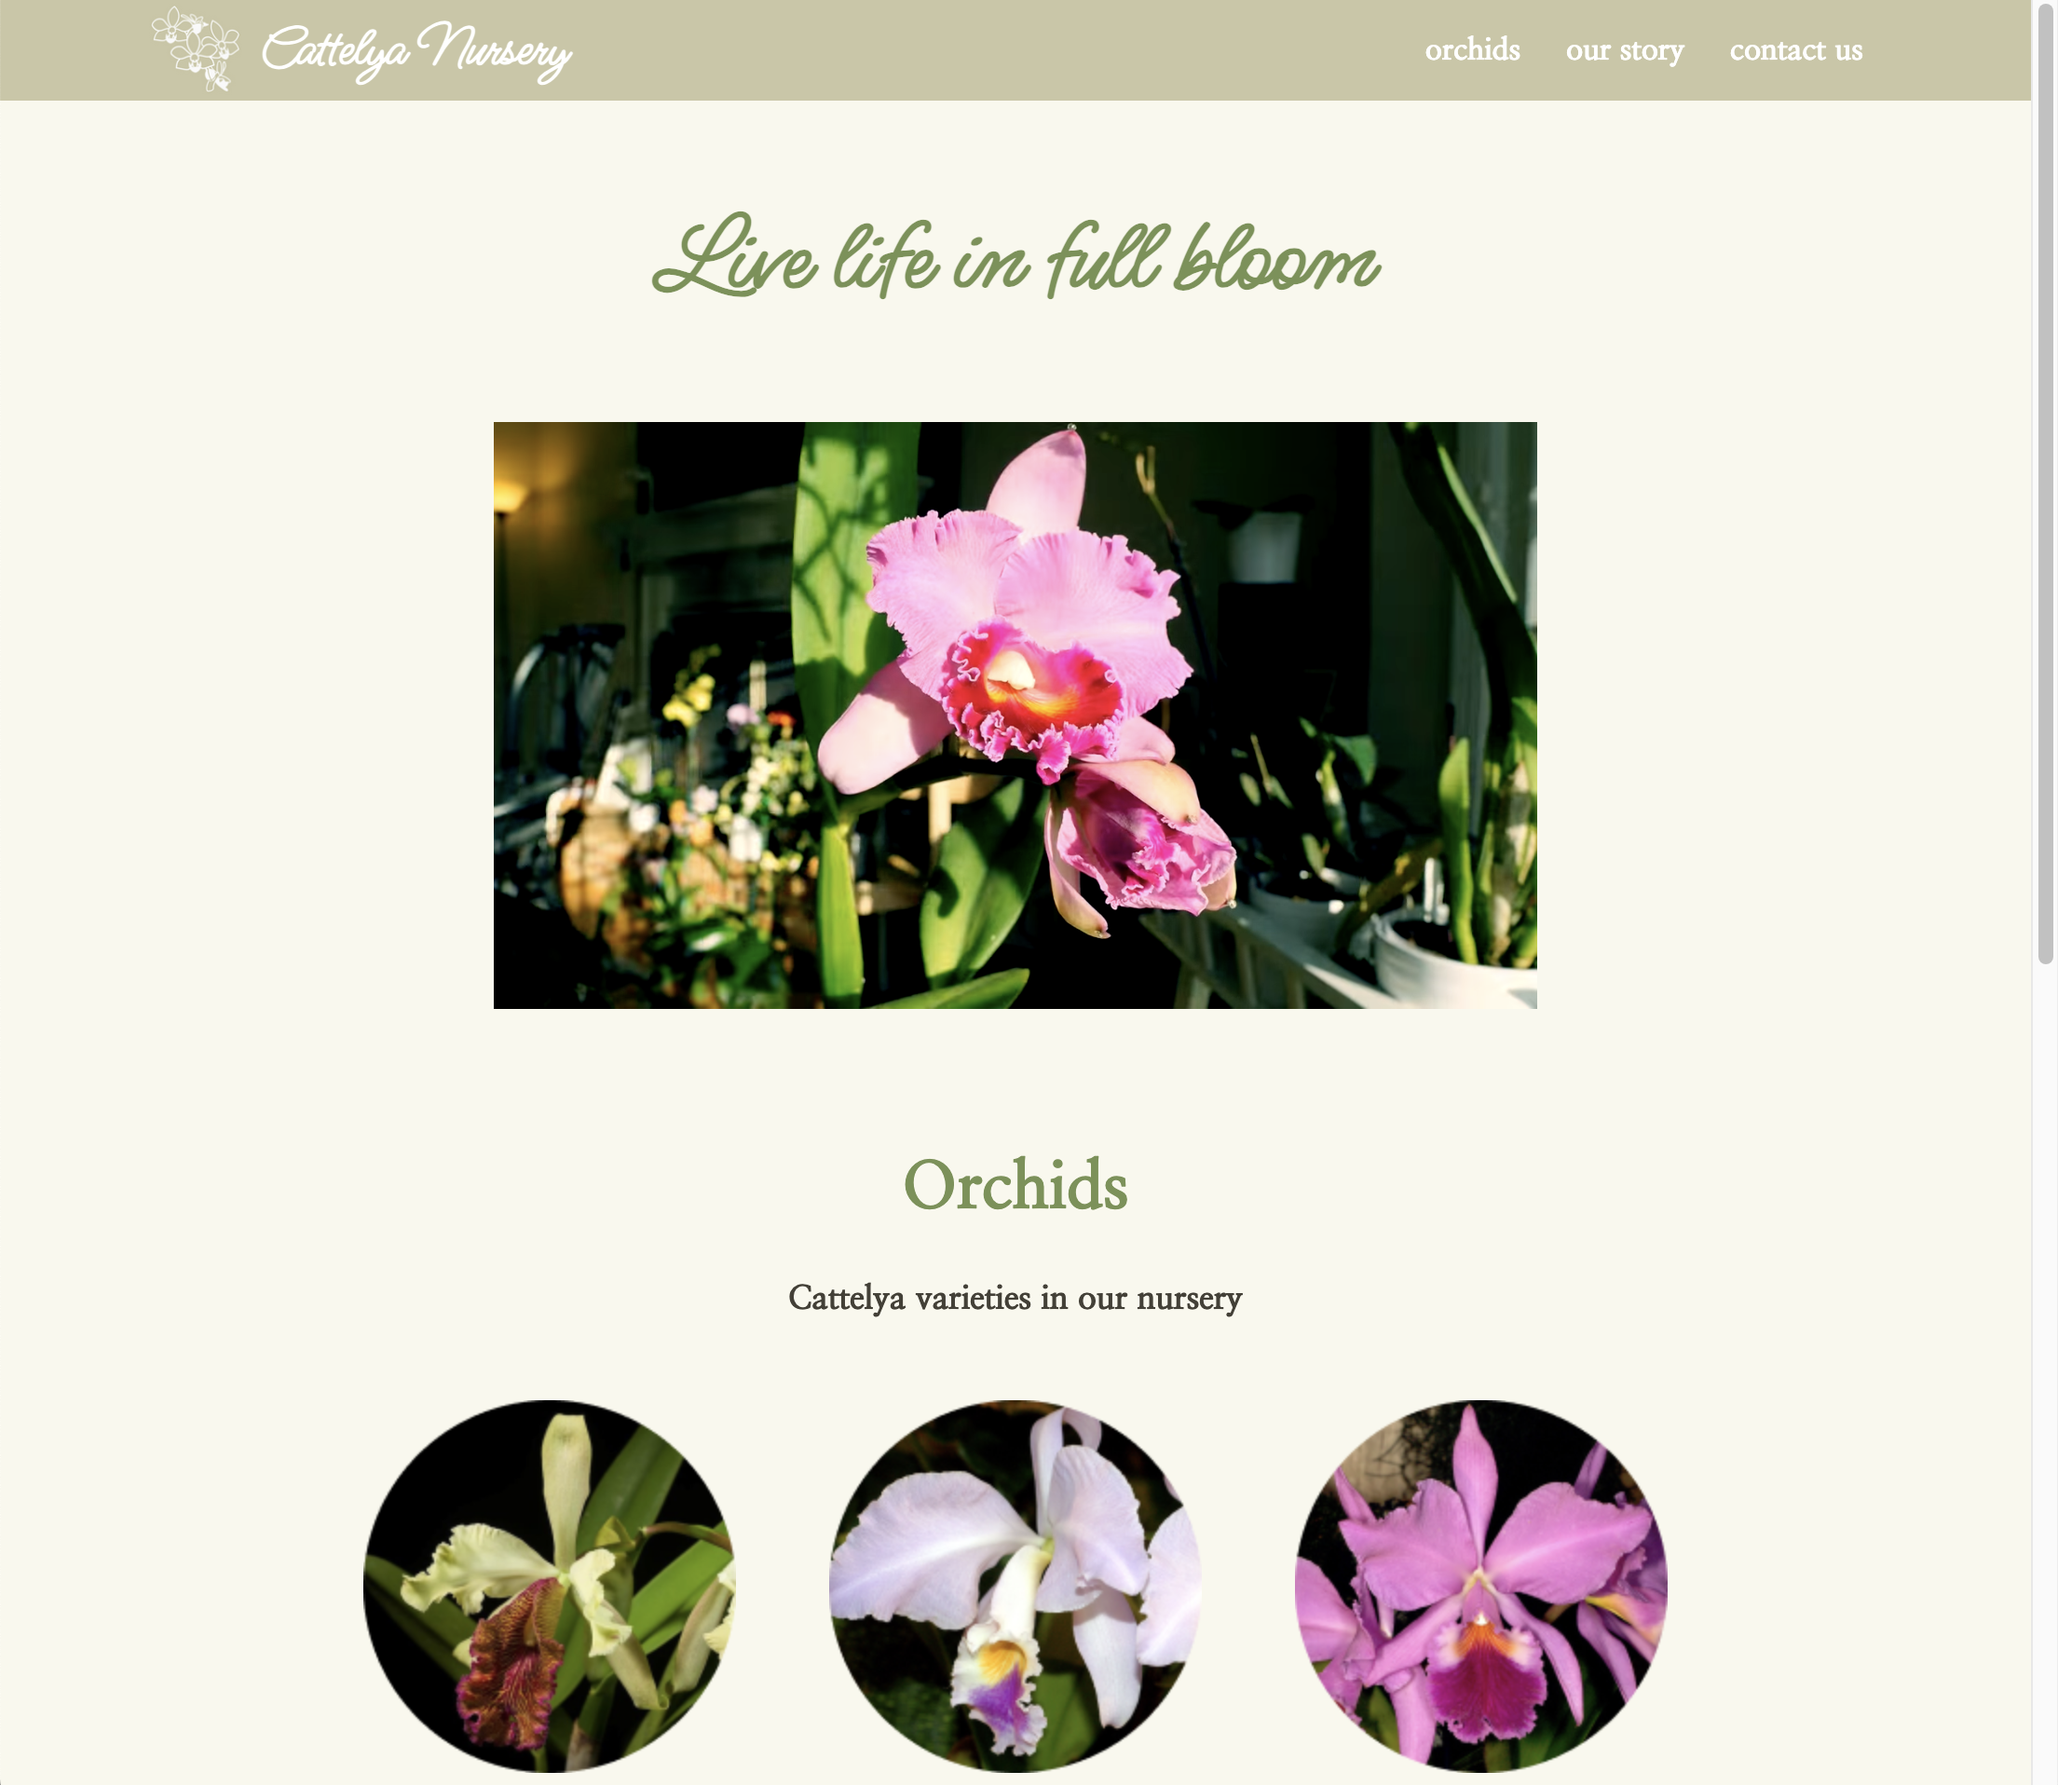
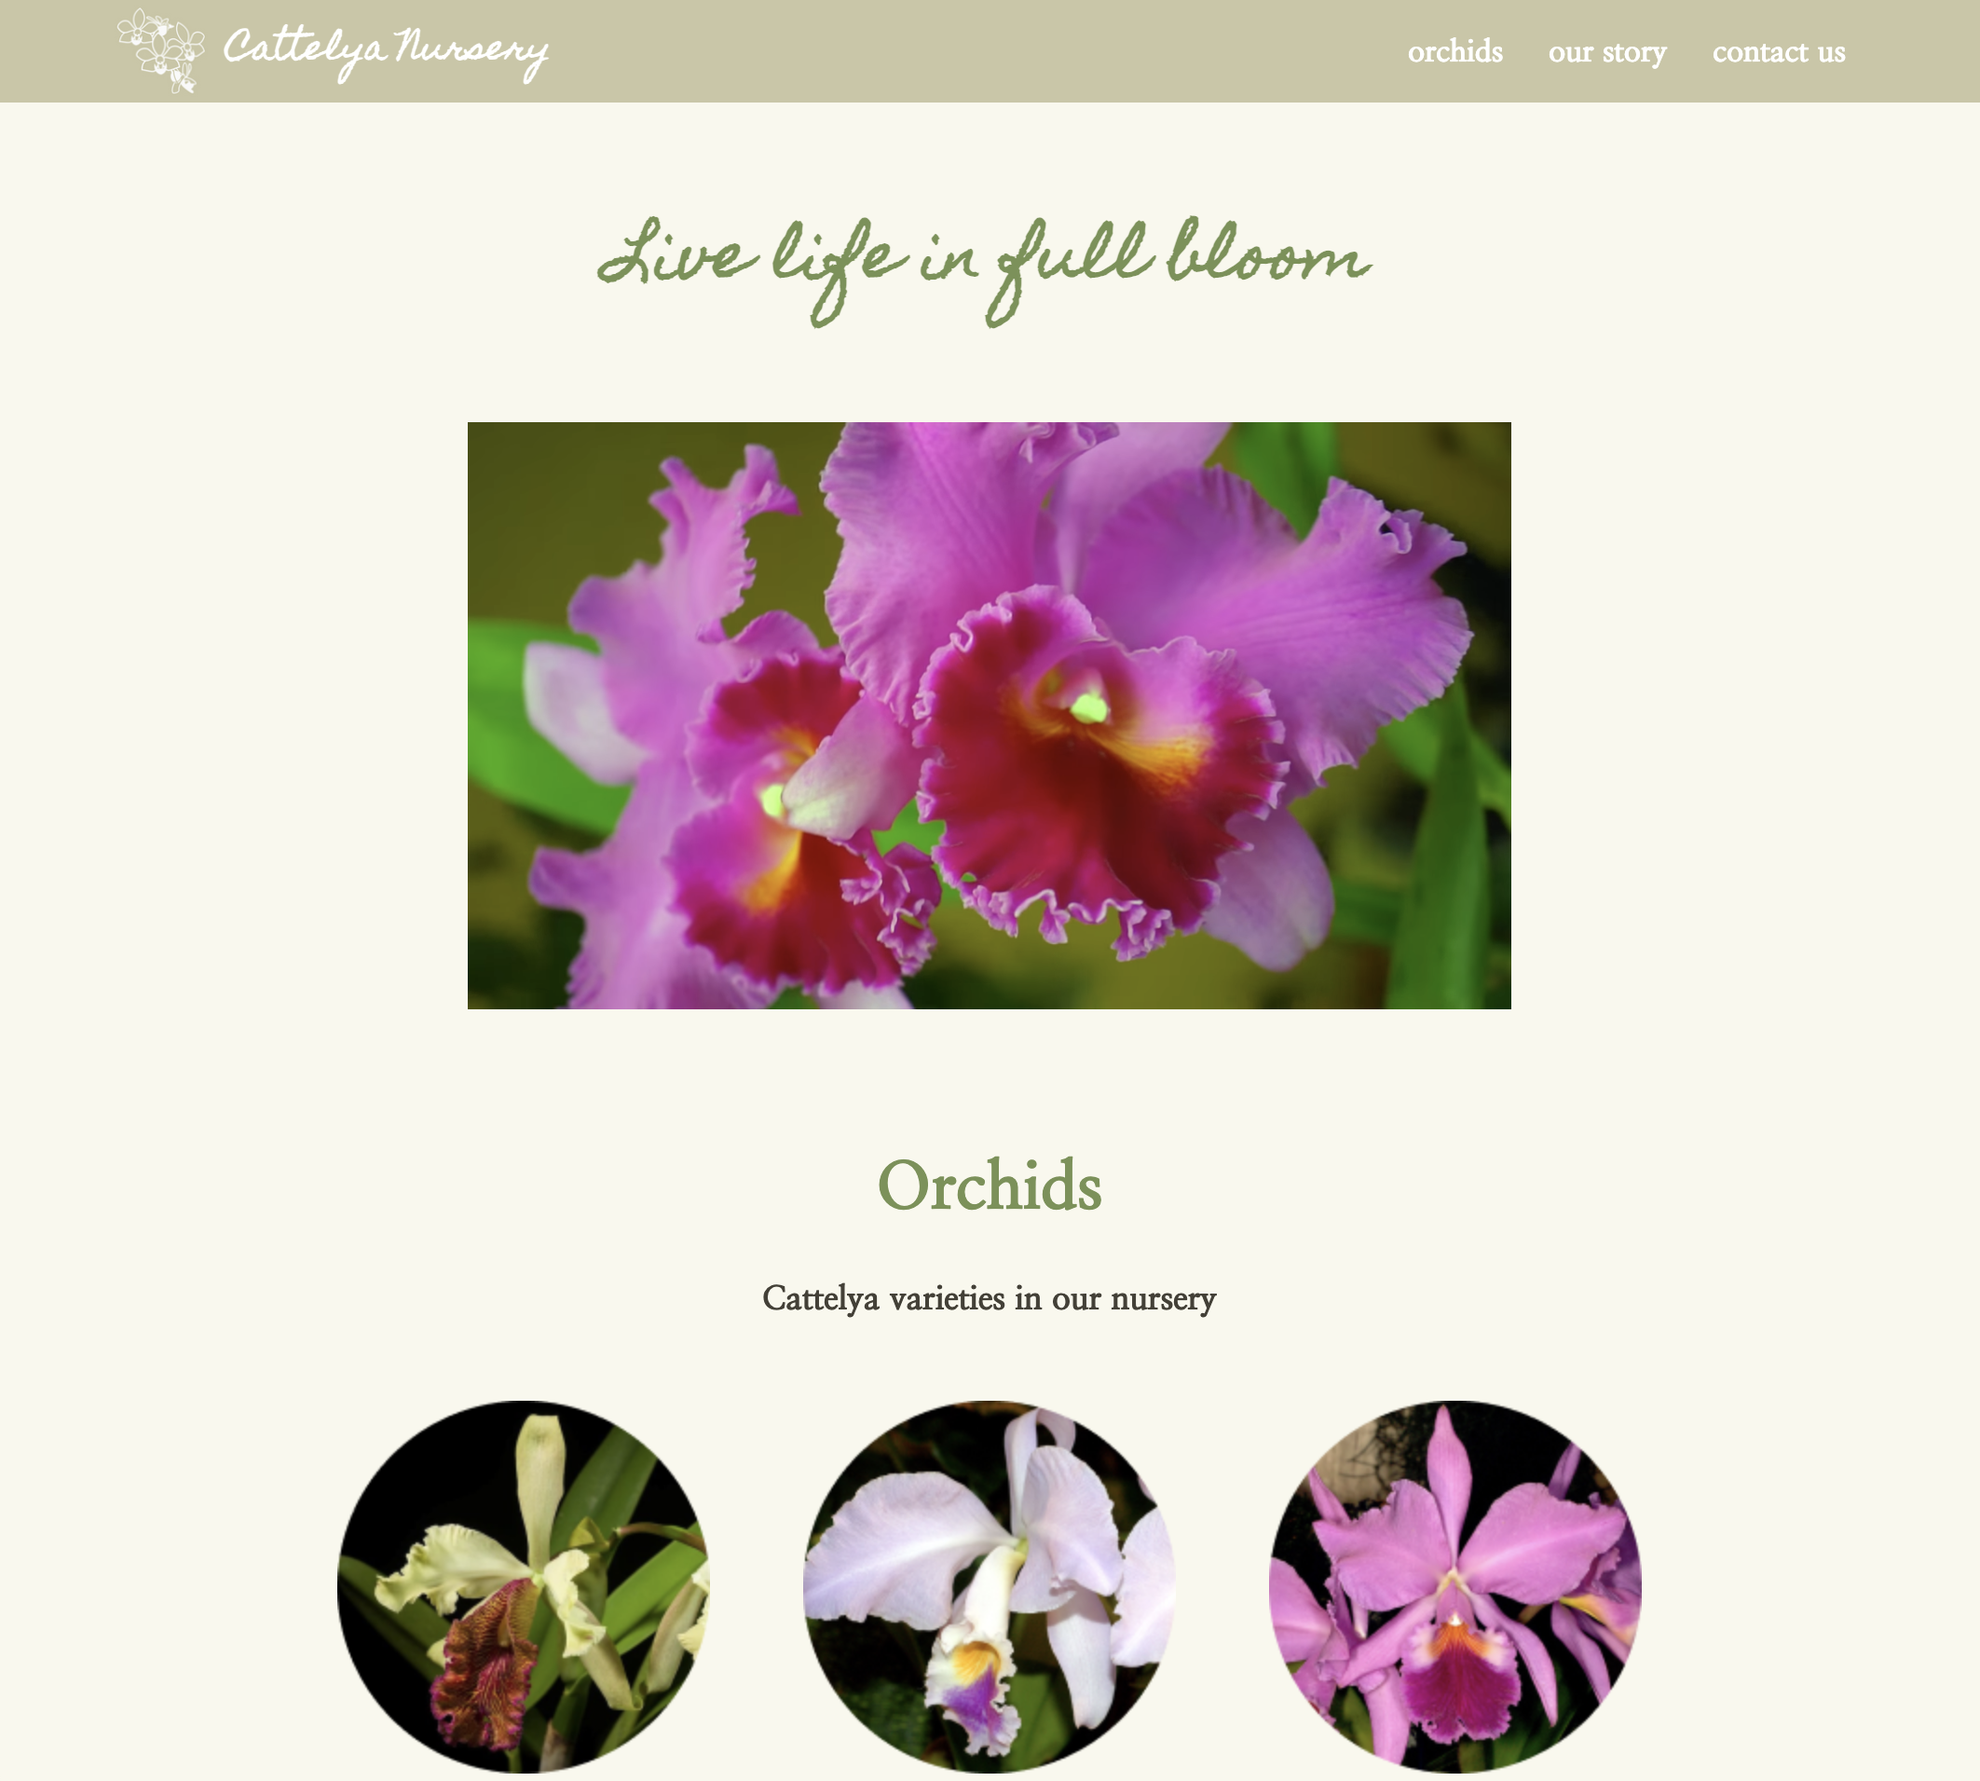
changed hero font for landing page

diff --git a/projects/product-landing/styles.css b/projects/product-landing/styles.css
@@ -1,5 +1,7 @@
 @import url('https://fonts.googleapis.com/css2?family=Ms+Madi&display=swap');
 
+@import url('https://fonts.googleapis.com/css2?family=Homemade+Apple&display=swap');
+
 @import url('https://fonts.googleapis.com/css2?family=Ms+Madi&family=Nanum+Myeongjo:wght@400;800&display=swap');
 
 @media (prefers-reduced-motion: no-preference) {
@@ -35,8 +37,8 @@ header img {
 }
 
 .brand {
-  font-family: 'Ms Madi', cursive;
-  font-size: 3rem;
+  font-family: 'Homemade Apple', cursive;
+  font-size: 1.8rem;
   color: #fff;
   margin-left: 10px;
   margin-right: 450px;
@@ -129,8 +131,8 @@ input {
 }
 
 .tagline {
-  font-family: 'Ms Madi', cursive;
-  font-size: 5.5rem;
+  font-family: 'Homemade Apple', cursive;
+  font-size: 3.3rem;
   color: #769353;
   padding: 20px 0;
   text-align: center;
@@ -172,8 +174,8 @@ input {
 }
 
 #variety {
-  font-family: 'Ms Madi', cursive;
-  font-size: 3rem;
+  font-family: 'Homemade Apple', cursive;
+  font-size: 2.1rem;
   color: #769353;
   padding: 15px;
 }
